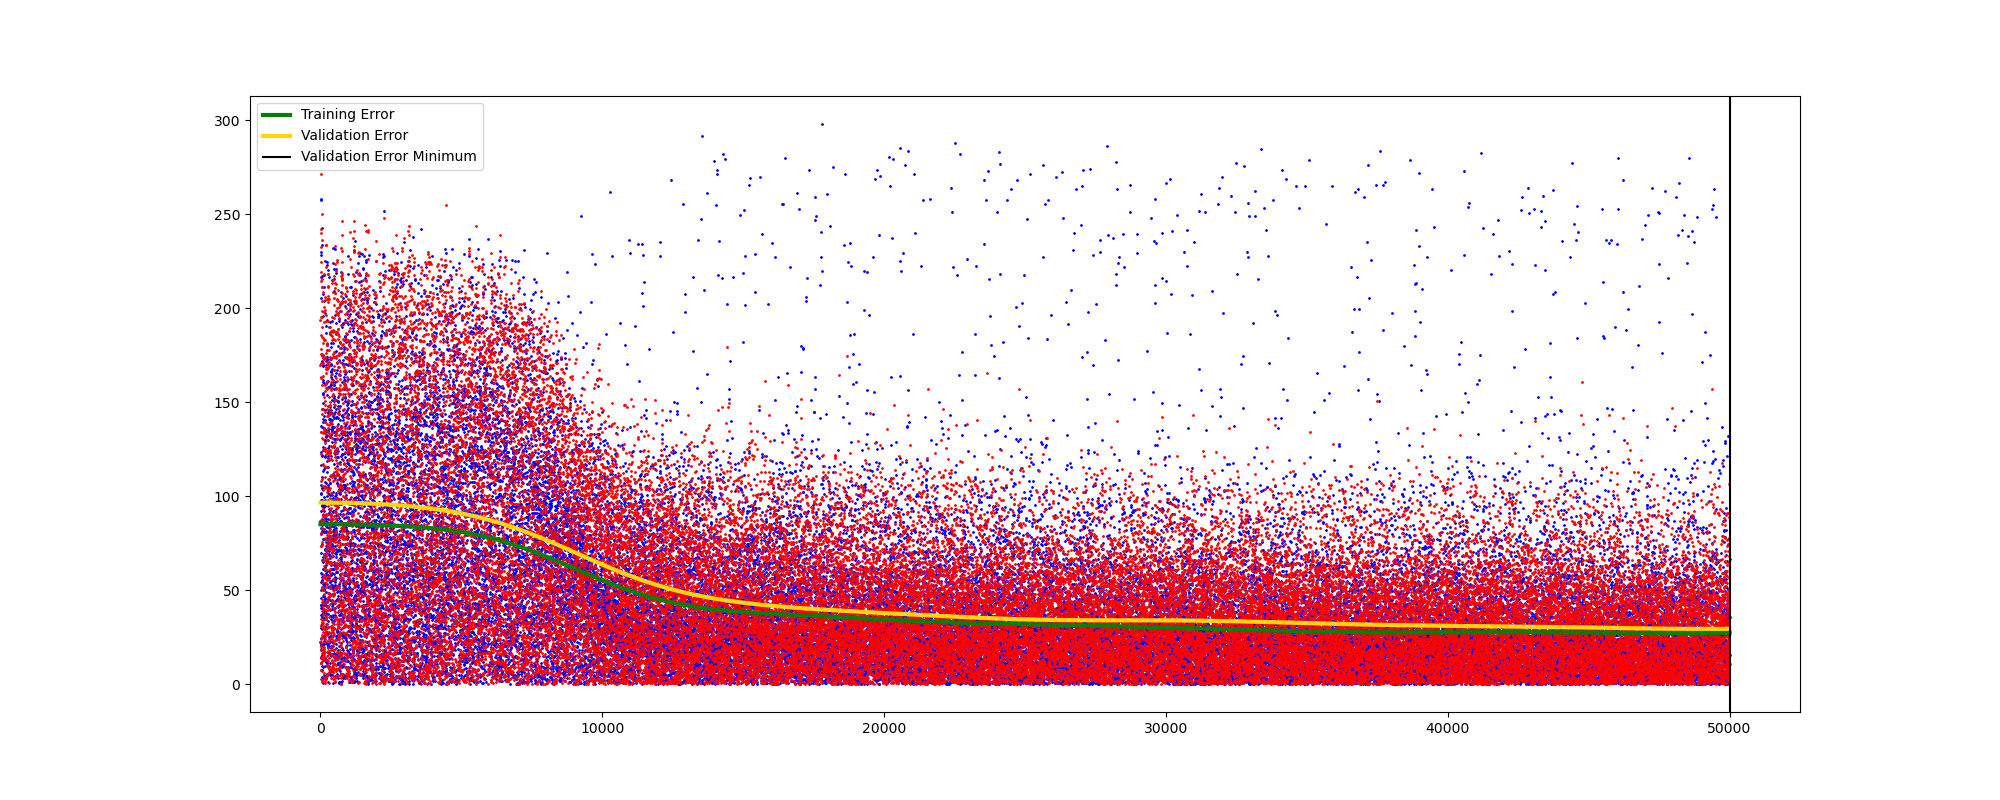
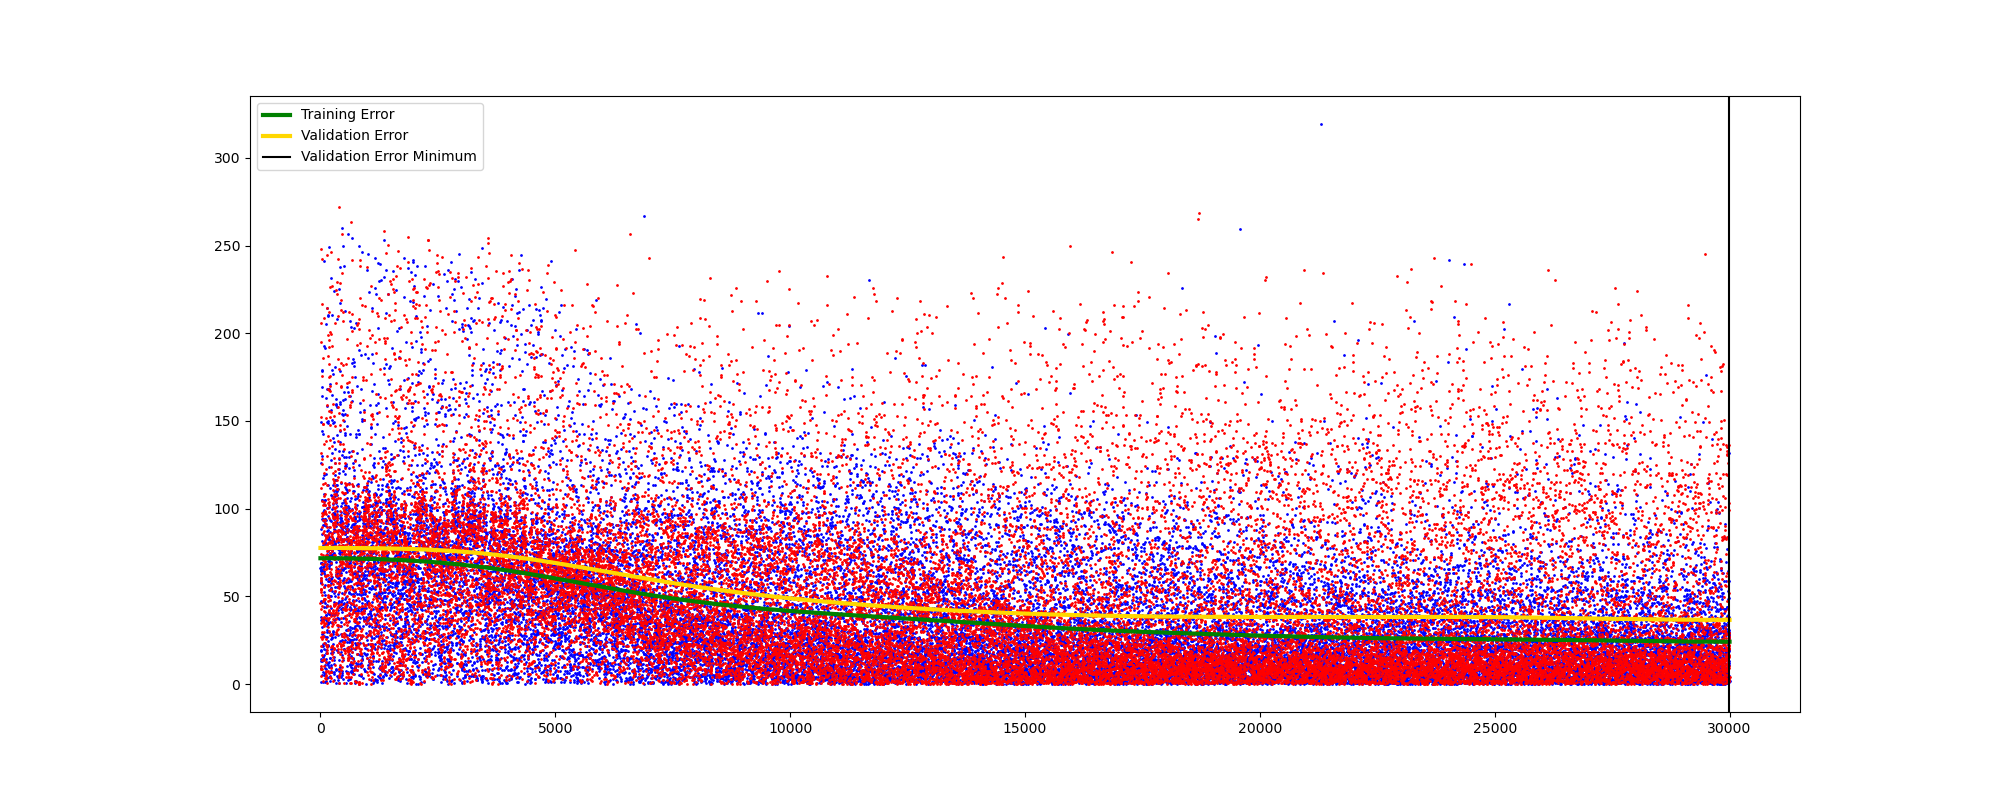
Update inputs for neural network

diff --git a/improvedAgent copy.py b/improvedAgent copy.py
@@ -38,8 +38,7 @@ class NeuralNetwork:
 
     COLOR_IMPORTANCES = [2, 4, 3]
 
-    INPUT_SIZE = 12
-    OUTPUT_SIZE = 3
+    INPUT_SIZE = 11
 
     WEIGHTS = "weights"
     OUTPUT = "output"
@@ -60,9 +59,10 @@ class NeuralNetwork:
                 layer.append(node)
             self.network.append(layer)
 
+        outputNodeCount = 1
         outputLayer = []
-        outputWeights = self.initalizeWeights(self.OUTPUT_SIZE, nodeCounts[-1] + 1)
-        for n in range(self.OUTPUT_SIZE):
+        outputWeights = self.initalizeWeights(outputNodeCount, nodeCounts[-1] + 1)
+        for n in range(outputNodeCount):
             outputNode = {self.WEIGHTS: outputWeights[n]}
             outputLayer.append(outputNode)
         self.network.append(outputLayer)
@@ -70,12 +70,12 @@ class NeuralNetwork:
     def initalizeWeights(self, currNodes, prevNodes) -> float:
         return np.random.randn(currNodes, prevNodes) * np.sqrt(2 / prevNodes)  # He initialization
 
-    def forwardPropagate(self, inputs, noChange=False) -> list:
-        if not noChange:
+    def forwardPropagate(self, inputs, validating=False) -> list:
+        if not validating:
             self.inputs = inputs  # Needed for backward propagation
 
         currLayerInputs = inputs
-        forwardPropNetwork = deepcopy(self.network) if noChange else self.network
+        forwardPropNetwork = deepcopy(self.network) if validating else self.network
         for l in range(len(forwardPropNetwork)):
             nextLayerInputs = []
             for node in forwardPropNetwork[l]:
@@ -92,7 +92,7 @@ class NeuralNetwork:
             currLayerInputs = nextLayerInputs  # Prep next layer's inputs
         return currLayerInputs  # Returns the last layer's outputs
 
-    def backwardPropagate(self, expected) -> None:
+    def backwardPropagate(self, expected, lastLayerScalar=1) -> None:
         if self.inputs.size == 0:  # Need to have forward propagated first
             return
 
@@ -105,7 +105,7 @@ class NeuralNetwork:
                 baseGradient = 1  # Set gradient to activation function derivative of current node's output value
                 if l == len(self.network) - 1:  # If L is the last layer in the network
                     # AKA dL / dO_n
-                    lossFunctionDerivative = 2 * (node[self.OUTPUT] - expected[n]) * self.COLOR_IMPORTANCES[n]
+                    lossFunctionDerivative = 2 * (node[self.OUTPUT] - expected[n]) * lastLayerScalar
                     # Multiply gradient by loss function derivative
                     baseGradient *= lossFunctionDerivative * sigmoidDerivative(node[self.OUTPUT])
                     # dO_n / dI_n * dL / dO_n = dL / dO_n
@@ -123,11 +123,15 @@ class NeuralNetwork:
                     node[self.WEIGHTS][w] -= self.learningRate * gradient  # Update weight
             factors = newFactors
 
-    def train(self, trainingData, validationData, smoothingFactor=200, minEpochs=4000) -> None:
-        trainingInputs = trainingData[0].reshape(-1, self.INPUT_SIZE)
-        trainingExpected = trainingData[1].reshape(-1, self.OUTPUT_SIZE)
-        validationInputs = validationData[0].reshape(-1, self.INPUT_SIZE)
-        validationExpected = validationData[1].reshape(-1, self.OUTPUT_SIZE)
+    def train(self, trainingInputs, trainingExpected, errorScalar=1, smoothingFactor=200, validationPercent=0.1, minEpochs=4000) -> None:
+        trainingInputData = trainingInputs[:, : int(
+            trainingInputs.shape[1] * (1 - validationPercent))].reshape(-1, self.INPUT_SIZE)
+        validationInputData = trainingInputs[:,  int(
+            trainingInputs.shape[1] * (1 - validationPercent)):].reshape(-1, self.INPUT_SIZE)
+        trainingExpectedData = trainingExpected[:, :
+                                                int(trainingExpected.shape[1] * (1 - validationPercent))].reshape(-1, 1)
+        validationExpectedData = trainingExpected[:,
+                                                  int(trainingExpected.shape[1] * (1 - validationPercent)):].reshape(-1, 1)
         trainingErrors = []
         validationErrors = []
 
@@ -136,35 +140,22 @@ class NeuralNetwork:
         minValidationErrorEpoch = epoch
         networks = []
 
-        prevTrainingIndices = set()
-        prevValidationIndices = set()
-
         seed(0)
         while epoch < minEpochs or validationImproving:
             print("EPOCH", str(epoch))
 
-            stochasticIndex = randint(0, len(trainingInputs) - 1)
-            while stochasticIndex in prevTrainingIndices:
-                stochasticIndex = randint(0, len(trainingInputs) - 1)
-            prevTrainingIndices.add(stochasticIndex)
-            if len(prevTrainingIndices) >= len(trainingInputs):
-                prevTrainingIndices = set()
-            trainingOutputs = self.forwardPropagate(trainingInputs[stochasticIndex])
-            self.backwardPropagate(trainingExpected[stochasticIndex])
+            stochasticIndex = randint(0, len(trainingInputData) - 1)
+            trainingOutputs = self.forwardPropagate(trainingInputData[stochasticIndex])
+            self.backwardPropagate(trainingExpectedData[stochasticIndex], errorScalar)
             scaledTrainingOutputs = 255 * np.array(trainingOutputs)
-            scaledTrainingExpected = 255 * np.array(trainingExpected[stochasticIndex])
-            trainingErrors.append(colorDistance(scaledTrainingOutputs, scaledTrainingExpected))
+            scaledTrainingExpected = 255 * np.array(trainingExpectedData[stochasticIndex])
+            trainingErrors.append(sqrt(errorScalar * (scaledTrainingOutputs[0] - scaledTrainingExpected[0])**2))
 
-            stochasticIndex = randint(0, len(validationInputs) - 1)
-            while stochasticIndex in prevValidationIndices:
-                stochasticIndex = randint(0, len(validationInputs) - 1)
-            prevValidationIndices.add(stochasticIndex)
-            if len(prevValidationIndices) >= len(validationInputs):
-                prevValidationIndices = set()
-            validationOutputs = self.forwardPropagate(validationInputs[stochasticIndex], True)
+            stochasticIndex = randint(0, len(validationInputData) - 1)
+            validationOutputs = self.forwardPropagate(validationInputData[stochasticIndex], True)
             scaledValidationOutputs = 255 * np.array(validationOutputs)
-            scaledValidationExpected = 255 * np.array(validationExpected[stochasticIndex])
-            validationError = colorDistance(scaledValidationOutputs, scaledValidationExpected)
+            scaledValidationExpected = 255 * np.array(validationExpectedData[stochasticIndex])
+            validationError = sqrt(errorScalar * (scaledValidationOutputs[0] - scaledValidationExpected[0])**2)
             validationErrors.append(validationError)
 
             networks.append(deepcopy(self.network))
@@ -187,74 +178,80 @@ def improvedAgent(originalPixels, grayscalePixels):
     leftPixels = originalPixels[:, :int(originalPixels.shape[1] / 2)]
     leftGrayscalePixels = grayscalePixels[:, :int(originalPixels.shape[1] / 2)]
 
-    validationPortion = 0.1
-    trainingInputPixels = leftGrayscalePixels[:, :int(leftGrayscalePixels.shape[1] * (1 - validationPortion))]
-    trainingExpectedPixels = leftPixels[:, :int(leftPixels.shape[1] * (1 - validationPortion))]
     trainingInputs = []
-    trainingExpected = []
-    for r in range(1, trainingInputPixels.shape[0] - 1):
+    redTrainingExpected = []
+    greenTrainingExpected = []
+    blueTrainingExpected = []
+    for r in range(1, leftGrayscalePixels.shape[0] - 1):
         trainingInputsRow = []
-        trainingExpectedRow = []
-        for c in range(1, trainingInputPixels.shape[1] - 1):
-            quadrant = 2
-            if r > int(trainingInputPixels.shape[0] / 2) and c > int(trainingInputPixels.shape[1] / 2):
-                quadrant = 4
-            elif r > int(trainingInputPixels.shape[0] / 2):
-                quadrant = 3
-            elif c > int(trainingInputPixels.shape[1] / 2):
-                quadrant = 1
-            section = np.append(getSection(r, c, trainingInputPixels, True), np.array(
-                [int(trainingInputPixels.shape[0] / 2) % r, int(trainingInputPixels.shape[1] / 2) % c, quadrant]))
+        redTrainingExpectedRow = []
+        greenTrainingExpectedRow = []
+        blueTrainingExpectedRow = []
+        for c in range(1, leftGrayscalePixels.shape[1] - 1):
+            section = np.append(getSection(r, c, leftGrayscalePixels, True), np.array([r, c]))
             trainingInputsRow.append(section)
-            trainingExpectedRow.append(trainingExpectedPixels[r, c])
+            redTrainingExpectedRow.append([leftPixels[r, c][0]])
+            greenTrainingExpectedRow.append([leftPixels[r, c][1]])
+            blueTrainingExpectedRow.append([leftPixels[r, c][2]])
         trainingInputs.append(trainingInputsRow)
-        trainingExpected.append(trainingExpectedRow)
+        redTrainingExpected.append(redTrainingExpectedRow)
+        greenTrainingExpected.append(greenTrainingExpectedRow)
+        blueTrainingExpected.append(blueTrainingExpectedRow)
     trainingInputs = np.array(trainingInputs) / 255.0
-    trainingExpected = np.array(trainingExpected) / 255.0
+    redTrainingExpected = np.array(redTrainingExpected) / 255.0
+    greenTrainingExpected = np.array(greenTrainingExpected) / 255.0
+    blueTrainingExpected = np.array(blueTrainingExpected) / 255.0
 
-    validationInputPixels = leftGrayscalePixels[:, int(leftGrayscalePixels.shape[1] * (1 - validationPortion)):]
-    validationExpectedPixels = leftPixels[:, int(leftPixels.shape[1] * (1 - validationPortion)):]
-    validationInputs = []
-    validationExpected = []
-    for r in range(1, validationInputPixels.shape[0] - 1):
-        validationInputsRow = []
-        validationExpectedRow = []
-        for c in range(1, validationInputPixels.shape[1] - 1):
-            quadrant = 2
-            if r > int(validationInputPixels.shape[0] / 2) and c > int(validationInputPixels.shape[1] / 2):
-                quadrant = 4
-            elif r > int(validationInputPixels.shape[0] / 2):
-                quadrant = 3
-            elif c > int(validationInputPixels.shape[1] / 2):
-                quadrant = 1
-            section = np.append(getSection(r, c, validationInputPixels, True), np.array(
-                [int(validationInputPixels.shape[0] / 2) % r, int(validationInputPixels.shape[1] / 2) % c, quadrant]))
-            validationInputsRow.append(section)
-            validationExpectedRow.append(validationExpectedPixels[r, c])
-        validationInputs.append(validationInputsRow)
-        validationExpected.append(validationExpectedRow)
-    validationInputs = np.array(validationInputs) / 255.0
-    validationExpected = np.array(validationExpected) / 255.0
-
-    nodeCounts = [50, 50, 50, 50]
+    nodeCounts = [20, 30, 20]
     minEpochs = 30000
     smoothingFactor = int(minEpochs / 15)
-    network = NeuralNetwork(nodeCounts)
-    trainingErrors, validationErrors, minValidationError = network.train(
-        (trainingInputs, trainingExpected), (validationInputs, validationExpected),
-        minEpochs=minEpochs, smoothingFactor=smoothingFactor)
 
-    x = np.arange(0, len(trainingErrors))
-    trainingErrorsSmooth = gaussian_filter1d(trainingErrors, smoothingFactor)
-    validationErrorsSmooth = gaussian_filter1d(validationErrors, smoothingFactor)
+    redNetwork = NeuralNetwork(nodeCounts)
+    redTrainingErrors, redValidationErrors, redMinValidationError = redNetwork.train(
+        trainingInputs, redTrainingExpected, errorScalar=2, minEpochs=minEpochs, smoothingFactor=smoothingFactor)
+    x = np.arange(0, len(redTrainingErrors))
+    redTrainingErrorsSmooth = gaussian_filter1d(redTrainingErrors, smoothingFactor)
+    redValidationErrorsSmooth = gaussian_filter1d(redValidationErrors, smoothingFactor)
     figure = plt.figure(figsize=((20., 8.)))
-    plt.scatter(x, trainingErrors, s=1, color="blue")
-    plt.scatter(x, validationErrors, s=1, color="red")
-    plt.plot(x, trainingErrorsSmooth, color="green", label="Training Error", linewidth=3)
-    plt.plot(x, validationErrorsSmooth, color="gold", label="Validation Error", linewidth=3)
-    plt.axvline(x=minValidationError, color='k', label="Validation Error Minimum")
+    plt.scatter(x, redTrainingErrors, s=1, color="blue")
+    plt.scatter(x, redValidationErrors, s=1, color="red")
+    plt.plot(x, redTrainingErrorsSmooth, color="green", label="Training Error", linewidth=3)
+    plt.plot(x, redValidationErrorsSmooth, color="gold", label="Validation Error", linewidth=3)
+    plt.axvline(x=redMinValidationError, color='k', label="Validation Error Minimum")
     plt.legend(loc="best")
-    plt.savefig("training-validation-stats.png")
+    plt.savefig("red-training-validation-stats.png")
+    plt.close(figure)
+
+    greenNetwork = NeuralNetwork(nodeCounts)
+    greenTrainingErrors, greenValidationErrors, greenMinValidationError = greenNetwork.train(
+        trainingInputs, greenTrainingExpected, errorScalar=4, minEpochs=minEpochs, smoothingFactor=smoothingFactor)
+    x = np.arange(0, len(greenTrainingErrors))
+    greenTrainingErrorsSmooth = gaussian_filter1d(greenTrainingErrors, smoothingFactor)
+    greenValidationErrorsSmooth = gaussian_filter1d(greenValidationErrors, smoothingFactor)
+    figure = plt.figure(figsize=((20., 8.)))
+    plt.scatter(x, greenTrainingErrors, s=1, color="blue")
+    plt.scatter(x, greenValidationErrors, s=1, color="red")
+    plt.plot(x, greenTrainingErrorsSmooth, color="green", label="Training Error", linewidth=3)
+    plt.plot(x, greenValidationErrorsSmooth, color="gold", label="Validation Error", linewidth=3)
+    plt.axvline(x=greenMinValidationError, color='k', label="Validation Error Minimum")
+    plt.legend(loc="best")
+    plt.savefig("green-training-validation-stats.png")
+    plt.close(figure)
+
+    blueNetwork = NeuralNetwork(nodeCounts)
+    blueTrainingErrors, blueValidationErrors, blueMinValidationError = blueNetwork.train(
+        trainingInputs, blueTrainingExpected, errorScalar=3, minEpochs=minEpochs, smoothingFactor=smoothingFactor)
+    x = np.arange(0, len(blueTrainingErrors))
+    blueTrainingErrorsSmooth = gaussian_filter1d(blueTrainingErrors, smoothingFactor)
+    figure = plt.figure(figsize=((20., 8.)))
+    blueValidationErrorsSmooth = gaussian_filter1d(blueValidationErrors, smoothingFactor)
+    plt.scatter(x, blueTrainingErrors, s=1, color="blue")
+    plt.scatter(x, blueValidationErrors, s=1, color="red")
+    plt.plot(x, blueTrainingErrorsSmooth, color="green", label="Training Error", linewidth=3)
+    plt.plot(x, blueValidationErrorsSmooth, color="gold", label="Validation Error", linewidth=3)
+    plt.axvline(x=blueMinValidationError, color='k', label="Validation Error Minimum")
+    plt.legend(loc="best")
+    plt.savefig("blue-training-validation-stats.png")
     plt.close(figure)
 
     leftRecoloredPixels = [[[] for j in range(leftPixels.shape[1])] for i in range(leftPixels.shape[0])]
@@ -263,20 +260,14 @@ def improvedAgent(originalPixels, grayscalePixels):
             if r == 0 or r == leftPixels.shape[0] - 1 or c == 0 or c == leftPixels.shape[1] - 1:
                 leftRecoloredPixels[r][c] = np.array([0, 0, 0], dtype=np.uint8)
                 continue
-            quadrant = 2
-            if r > int(leftGrayscalePixels.shape[0] / 2) and c > int(leftGrayscalePixels.shape[1] / 2):
-                quadrant = 4
-            elif r > int(leftGrayscalePixels.shape[0] / 2):
-                quadrant = 3
-            elif c > int(leftGrayscalePixels.shape[1] / 2):
-                quadrant = 1
-            section = np.append(getSection(r, c, leftGrayscalePixels, True), np.array(
-                [int(leftGrayscalePixels.shape[0] / 2) % r, int(leftGrayscalePixels.shape[1] / 2) % c, quadrant]))
-            output = 255 * np.array(network.forwardPropagate(section, True))
+            section = np.append(getSection(r, c, leftGrayscalePixels, True), np.array([r, c]))
+            redOutput = 255 * np.array(redNetwork.forwardPropagate(section))
+            greenOutput = 255 * np.array(greenNetwork.forwardPropagate(section))
+            blueOutput = 255 * np.array(blueNetwork.forwardPropagate(section))
             # print(np.array(outputs, dtype=np.uint8))
             # print(leftPixels[r, c])
             # input()
-            leftRecoloredPixels[r][c] = np.array(output, dtype=np.uint8)
+            leftRecoloredPixels[r][c] = np.array([redOutput[0], greenOutput[0], blueOutput[0]], dtype=np.uint8)
     leftRecoloredPixels = np.array(leftRecoloredPixels, dtype=np.uint8)
     image = Image.fromarray(leftRecoloredPixels)
     image.save("improved-agent-training-results.png")
